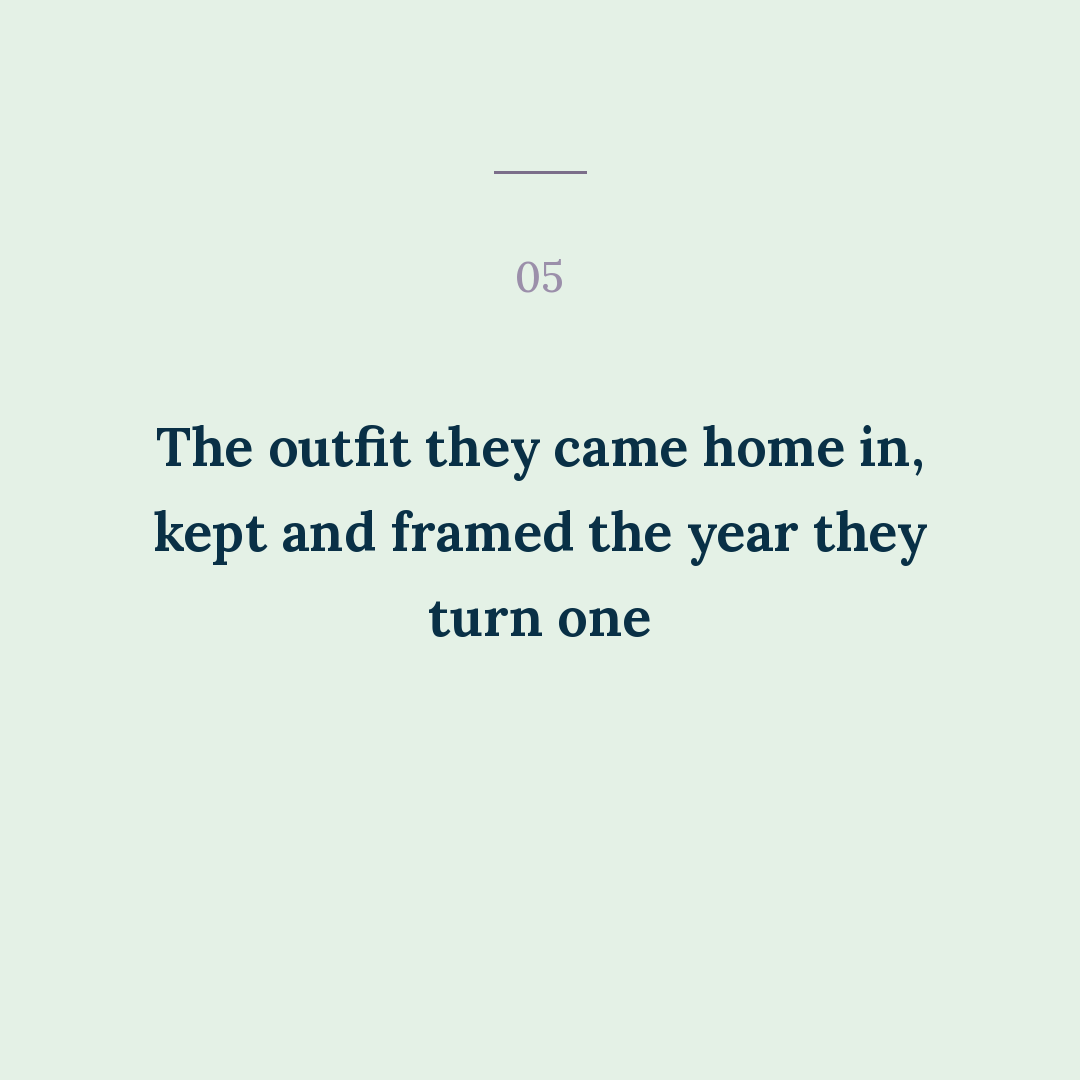
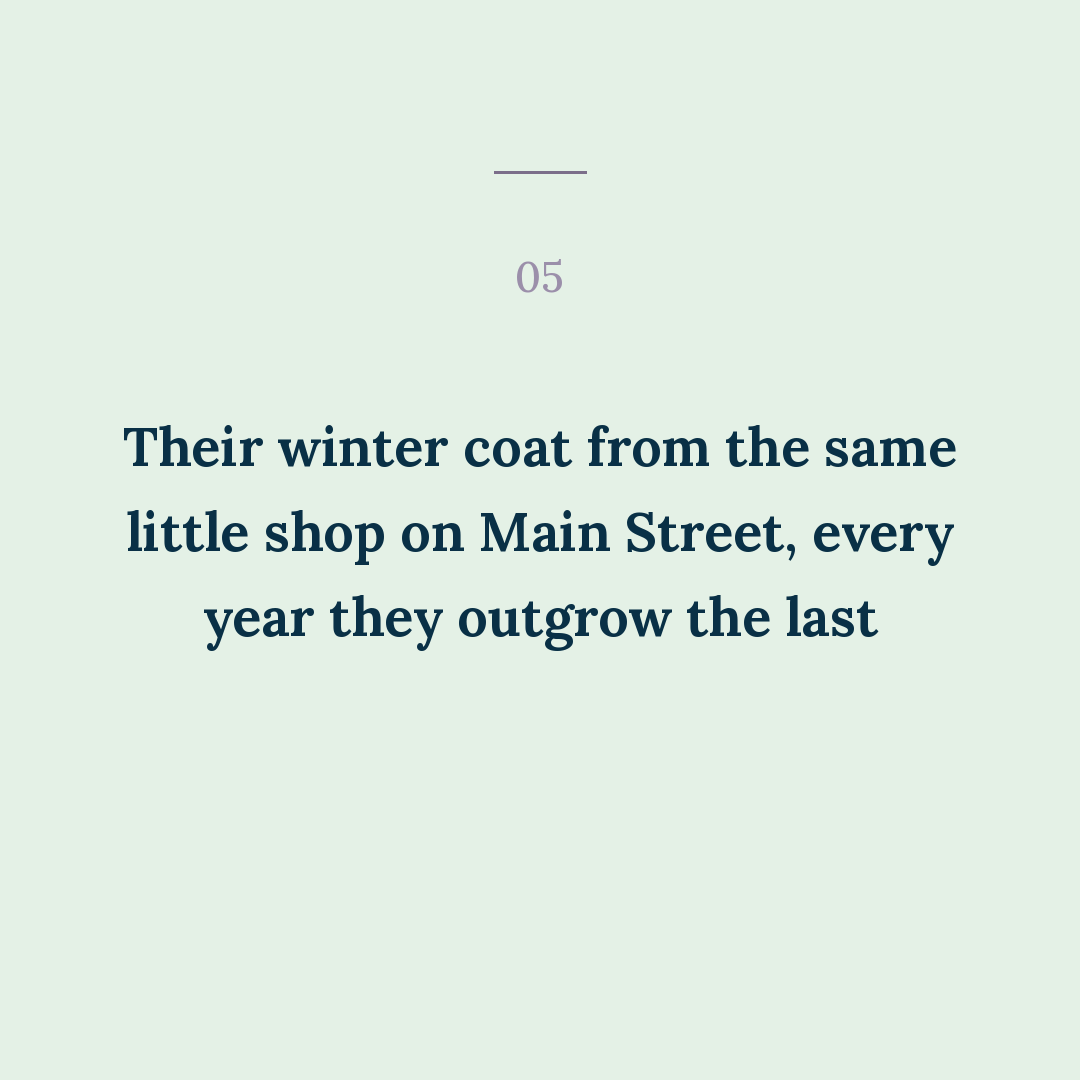
Add trad-01-wish-youd-started-in-year-one (TRAD 01 - Wish Youd Started In Year One)

Changed region(s): [[0.1222, 0.3972, 0.8861, 0.5194], [0.1833, 0.55, 0.825, 0.6111]]

diff --git a/posts/trad-01-wish-youd-started-in-year-one/slides.md b/posts/trad-01-wish-youd-started-in-year-one/slides.md
@@ -1,22 +1,72 @@
 # TRAD 01 - Wish Youd Started In Year One
 
-Format: carousel · bg eucalyptus #E4F1E6 · lane Tradition · engine 4 · annual documentation · CTA Follow · hook D2 (revised) · slot AM
+Format: carousel · bg eucalyptus #E4F1E6 · lane Tradition · CTA Follow · hook D2 (revised twice) · slot AM
 
 ## Cover
 The traditions you'll wish you'd started in year one…
 
 ## Items
-01  A letter written to them each December, sealed
-02  The birthday interview — same questions, watch the answers change
-03  A charm added to their bracelet every birthday, so by ten they're wearing the whole story
-04  A book bought and inscribed for them every birthday, so the shelf fills up right alongside them
-05  The outfit they came home in, kept and framed the year they turn one
+01  A letter written to them each December, sealed and saved for their eighteenth
+02  The birthday interview — ask them the same questions, watch the answers change
+03  A charm added to their bracelet every year, so by ten they're wearing the whole story
+04  The same orchard every autumn, and whatever you pick gets baked that weekend
+05  Their winter coat from the same little shop on Main Street, every year they outgrow the last
 
 ## Closer (follow)
 Follow for more reminders of the small things worth keeping
 
-Render with render_keepsake_cover... NO — this is Tradition, use standard render_cover / render_items_for_post / render_follow, weight 650, bg BG_EUCA, NO credibility byline.
+Render with standard render_cover / render_items_for_post / render_follow, weight 650, bg BG_EUCA,
+NO credibility byline. (Not the keepsake textured path — that lane owns the kraft-paper treatment.)
 
-REVISED 2026-08-16 per Ben's review: items 03-05 (jar of notes / doorway photo / minute of video) were
-flagged as too vague/generic on a single slide and replaced with more concrete, specific items drawn
-from tradition-hook-pool.md's "unspent material" list. Original three retired — see hook-pool ledger.
+---
+
+## REVISION 2 — 2026-08-16, second review pass. Read this before touching the lane again.
+
+Ben's note: *"I feel like the posts claude was coming up with when making this lane were way better
+than this. Why is it missing the mark??? It's a lot of birthday. It's just not great writing/ideas
+for traditions. Things like baking, shopping local, etc. are missing here."*
+
+He deleted items 04 and 05 in the spreadsheet and rewrote 02 and 03 in place. He was right, and the
+count makes it obvious: **four of the five items hung off a birthday** (interview · charm every
+birthday · book every birthday · framed the year they turn one). Five distinct items, one occasion.
+From a scroller's side that is not a list, it's the same slide five times.
+
+### Why it happened — three causes, all worth fixing above this file
+
+1. **The engine tag was read as a constraint on items.** D2 was filed in the pool under *Engine 4 ·
+   annual documentation*, so the restock only looked for annual-documentation-shaped items. But the
+   hook itself — *"the traditions you'll wish you'd started in year one"* — is a **wishlist**, and a
+   wishlist spans all four engines. The engine tag is a planning label for spreading a week's posts
+   around; it is not a filter on what may appear inside one post.
+
+2. **The item-ledger rule starved the restock.** Every item may appear exactly once across the pool
+   (added Aug 15, for good reason — it killed a real broken-record problem). But by the time D2
+   needed refilling, the strong weekly-rhythm and outing material was already spoken for by W1–W4,
+   and the "unspent material" list that remained skewed annual and birthday-ish. The rule protected
+   against repetition *across* posts and had nothing to say about monotony *within* one.
+
+3. **Nothing checked occasion variety.** The pre-ship checklist counts hashtags, premises and
+   absolutes. Nothing counted how many items share an anchor.
+
+### The rule that comes out of this
+
+> **Count the occasions, not the items.** Five items hanging off one anchor — one holiday, one
+> birthday, one season, one room — is one item shown five times. **No more than two items in a post
+> may share an occasion anchor**, and a five-item post should span at least three different rhythms
+> (weekly · seasonal · annual · milestone). This is the item-level sibling of the Aug 9 keepsake
+> lesson (*count premises, not hooks*) and the Aug 15 pool lesson (*count items, not hooks*).
+
+### What changed here
+
+Items 02 and 03 are **Ben's own words, verbatim** from his spreadsheet cells — note that his edit to
+03 quietly did the real work, swapping *"every birthday"* for *"every year"* and de-anchoring it.
+Items 01, 04 and 05 are new. The anchors now run **December · birthday · every year · autumn ·
+whenever they outgrow a coat** — five rhythms, one birthday item instead of four. Items 04 and 05
+are the baking and shop-local material Ben named as missing, written as outings with a rule in each
+(§2 of the brief: *a tradition item needs a rule in it*), and both are startable in year one, which
+is the test that killed a "back-to-school shoes" draft.
+
+**Retired, not returned to the pool:** the inscribed birthday book and the framed homecoming outfit.
+Both are decent items that failed only by being the third and fourth birthday in a row — but D2 has
+now been restocked twice and should not be drawn from again. If a future hook wants them, it has to
+earn them in a post whose other items are not birthdays.
